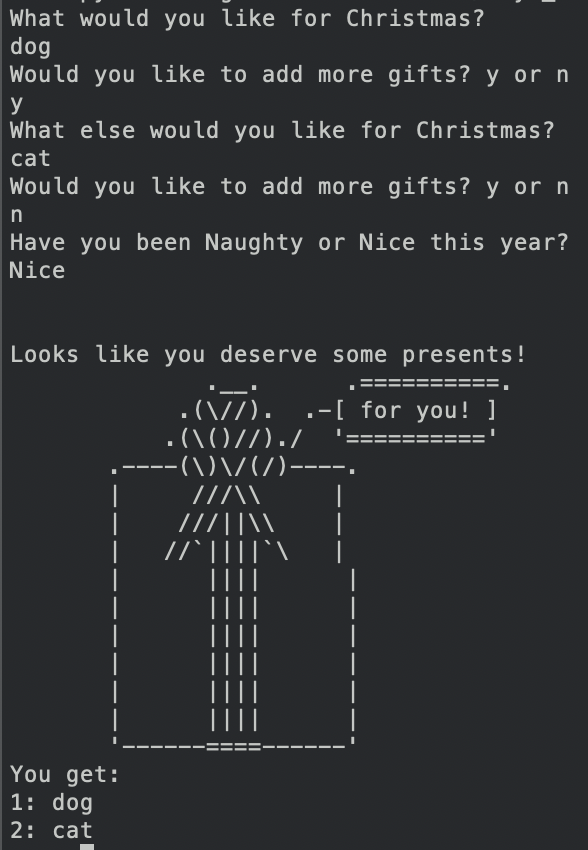
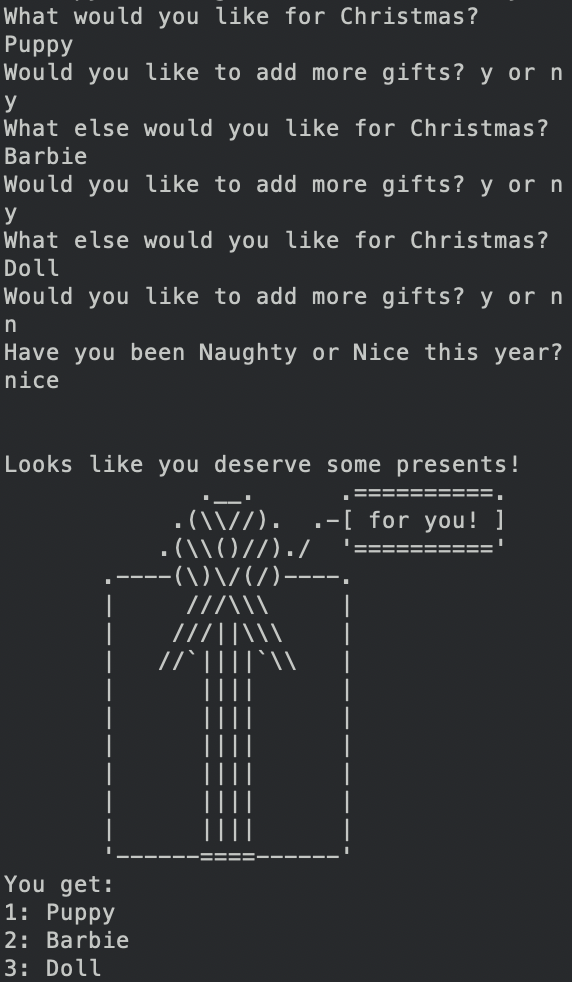
Image corrections

diff --git a/small_med.py b/small_med.py
@@ -44,12 +44,12 @@ while error == True:
     if naughty_nice == "nice":
         print("""\n\nLooks like you deserve some presents! 
               .__.      .==========.
-            .(\\//).  .-[ for you! ]
-           .(\\()//)./  '=========='
+            .(\\\//).  .-[ for you! ]
+           .(\\\()//)./  '=========='
        .----(\)\/(/)----.
-       |     ///\\\     |
-       |    ///||\\\    |
-       |   //`||||`\\   |
+       |     ///\\\\\     |
+       |    ///||\\\\\    |
+       |   //`||||`\\\   |
        |      ||||      |
        |      ||||      |
        |      ||||      |
